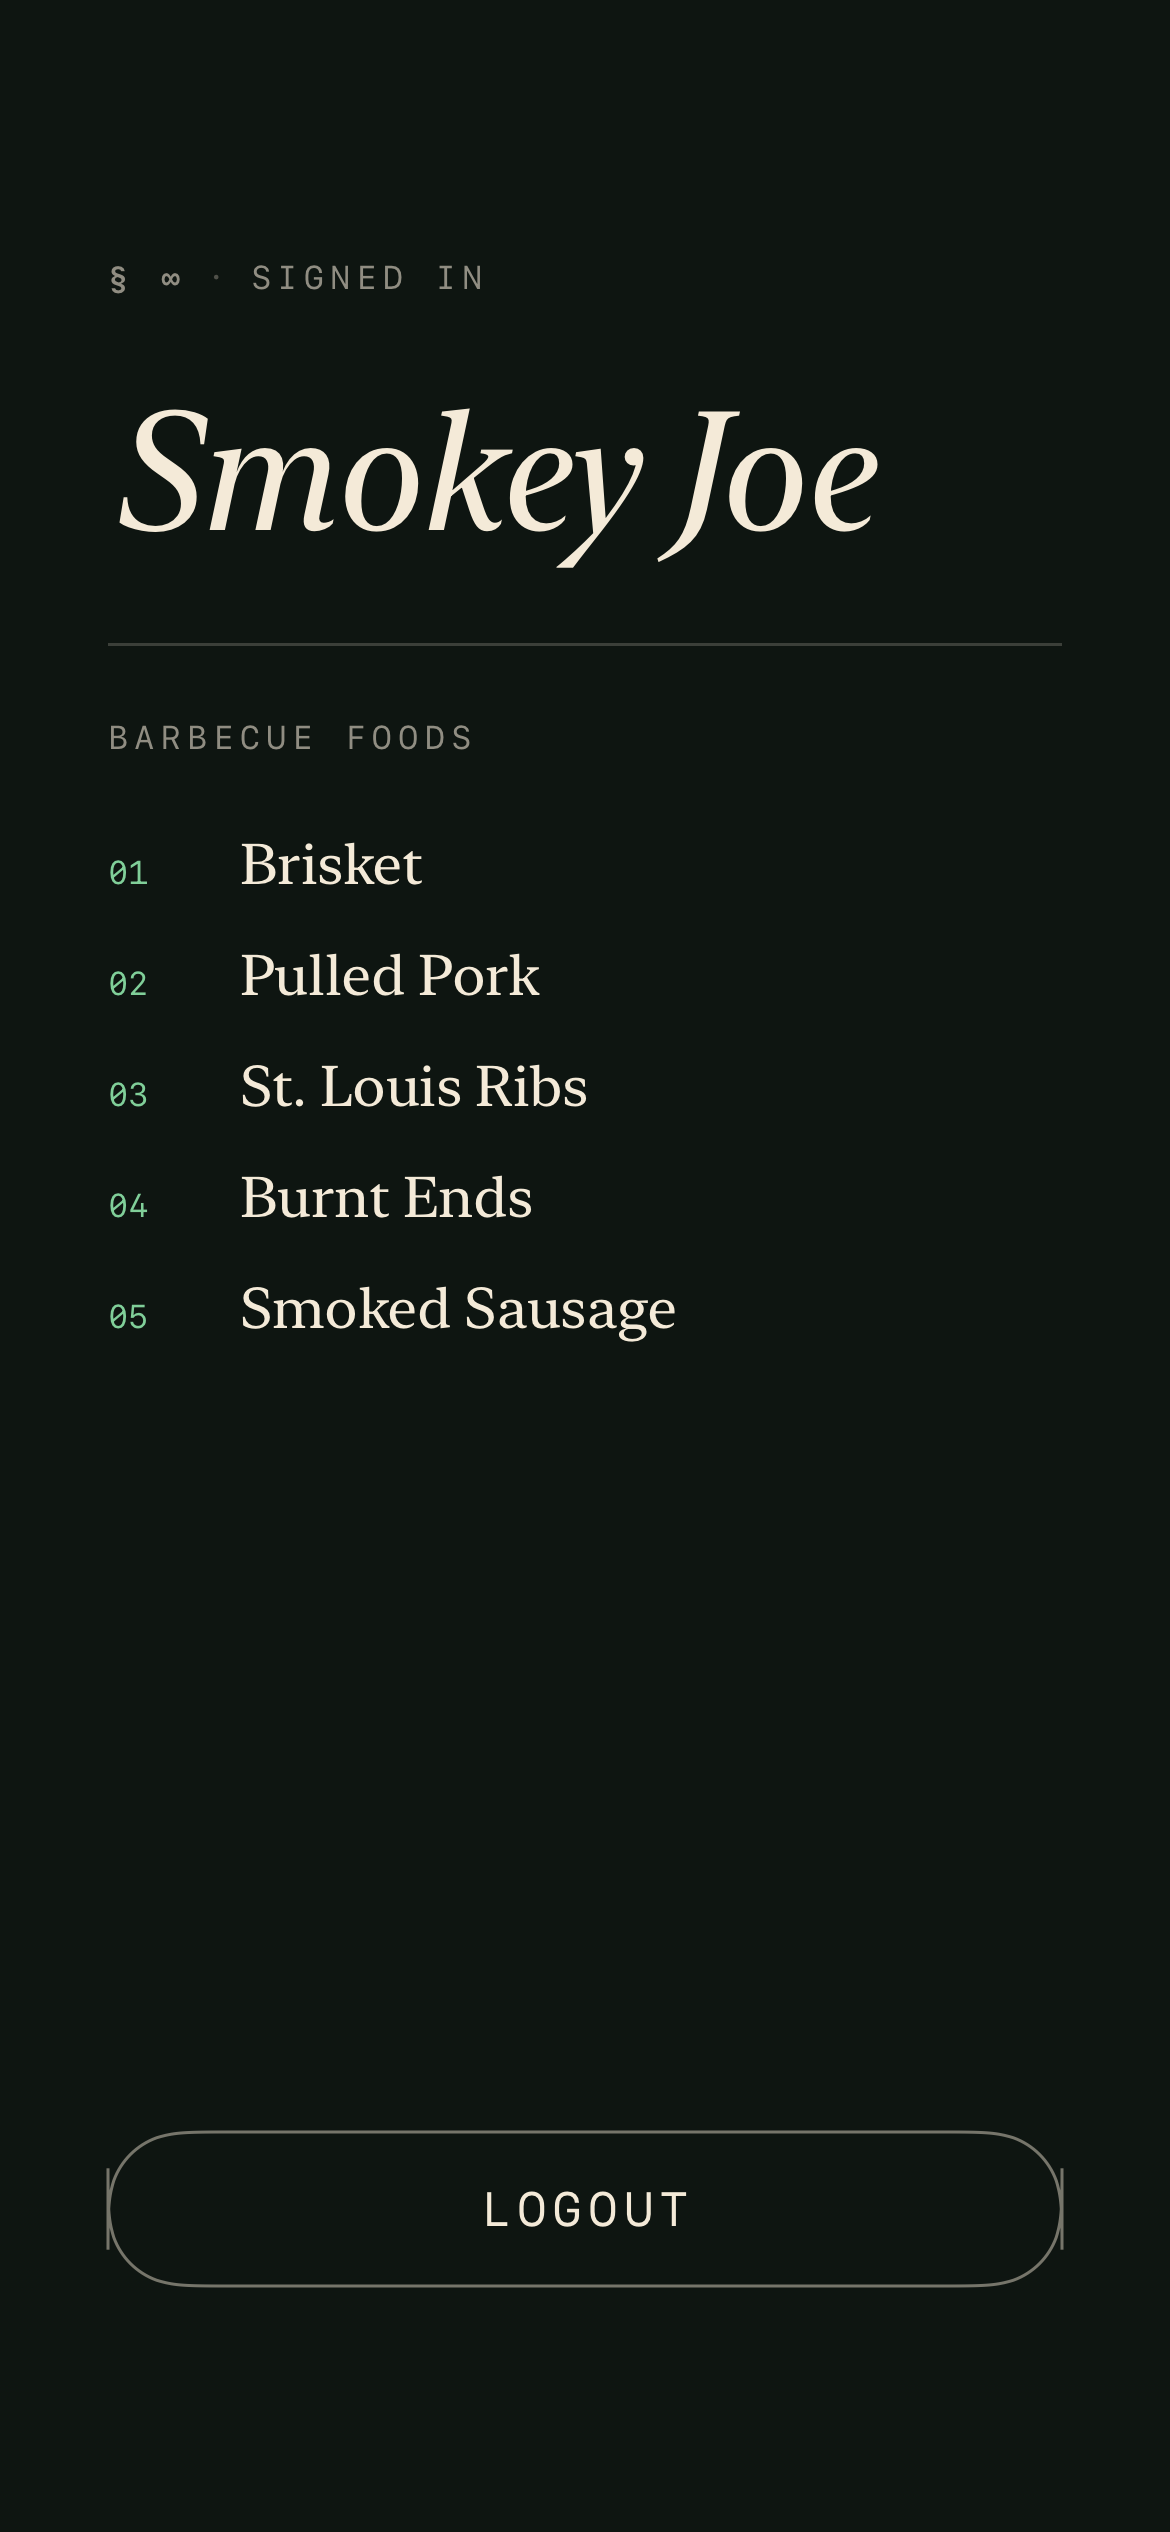
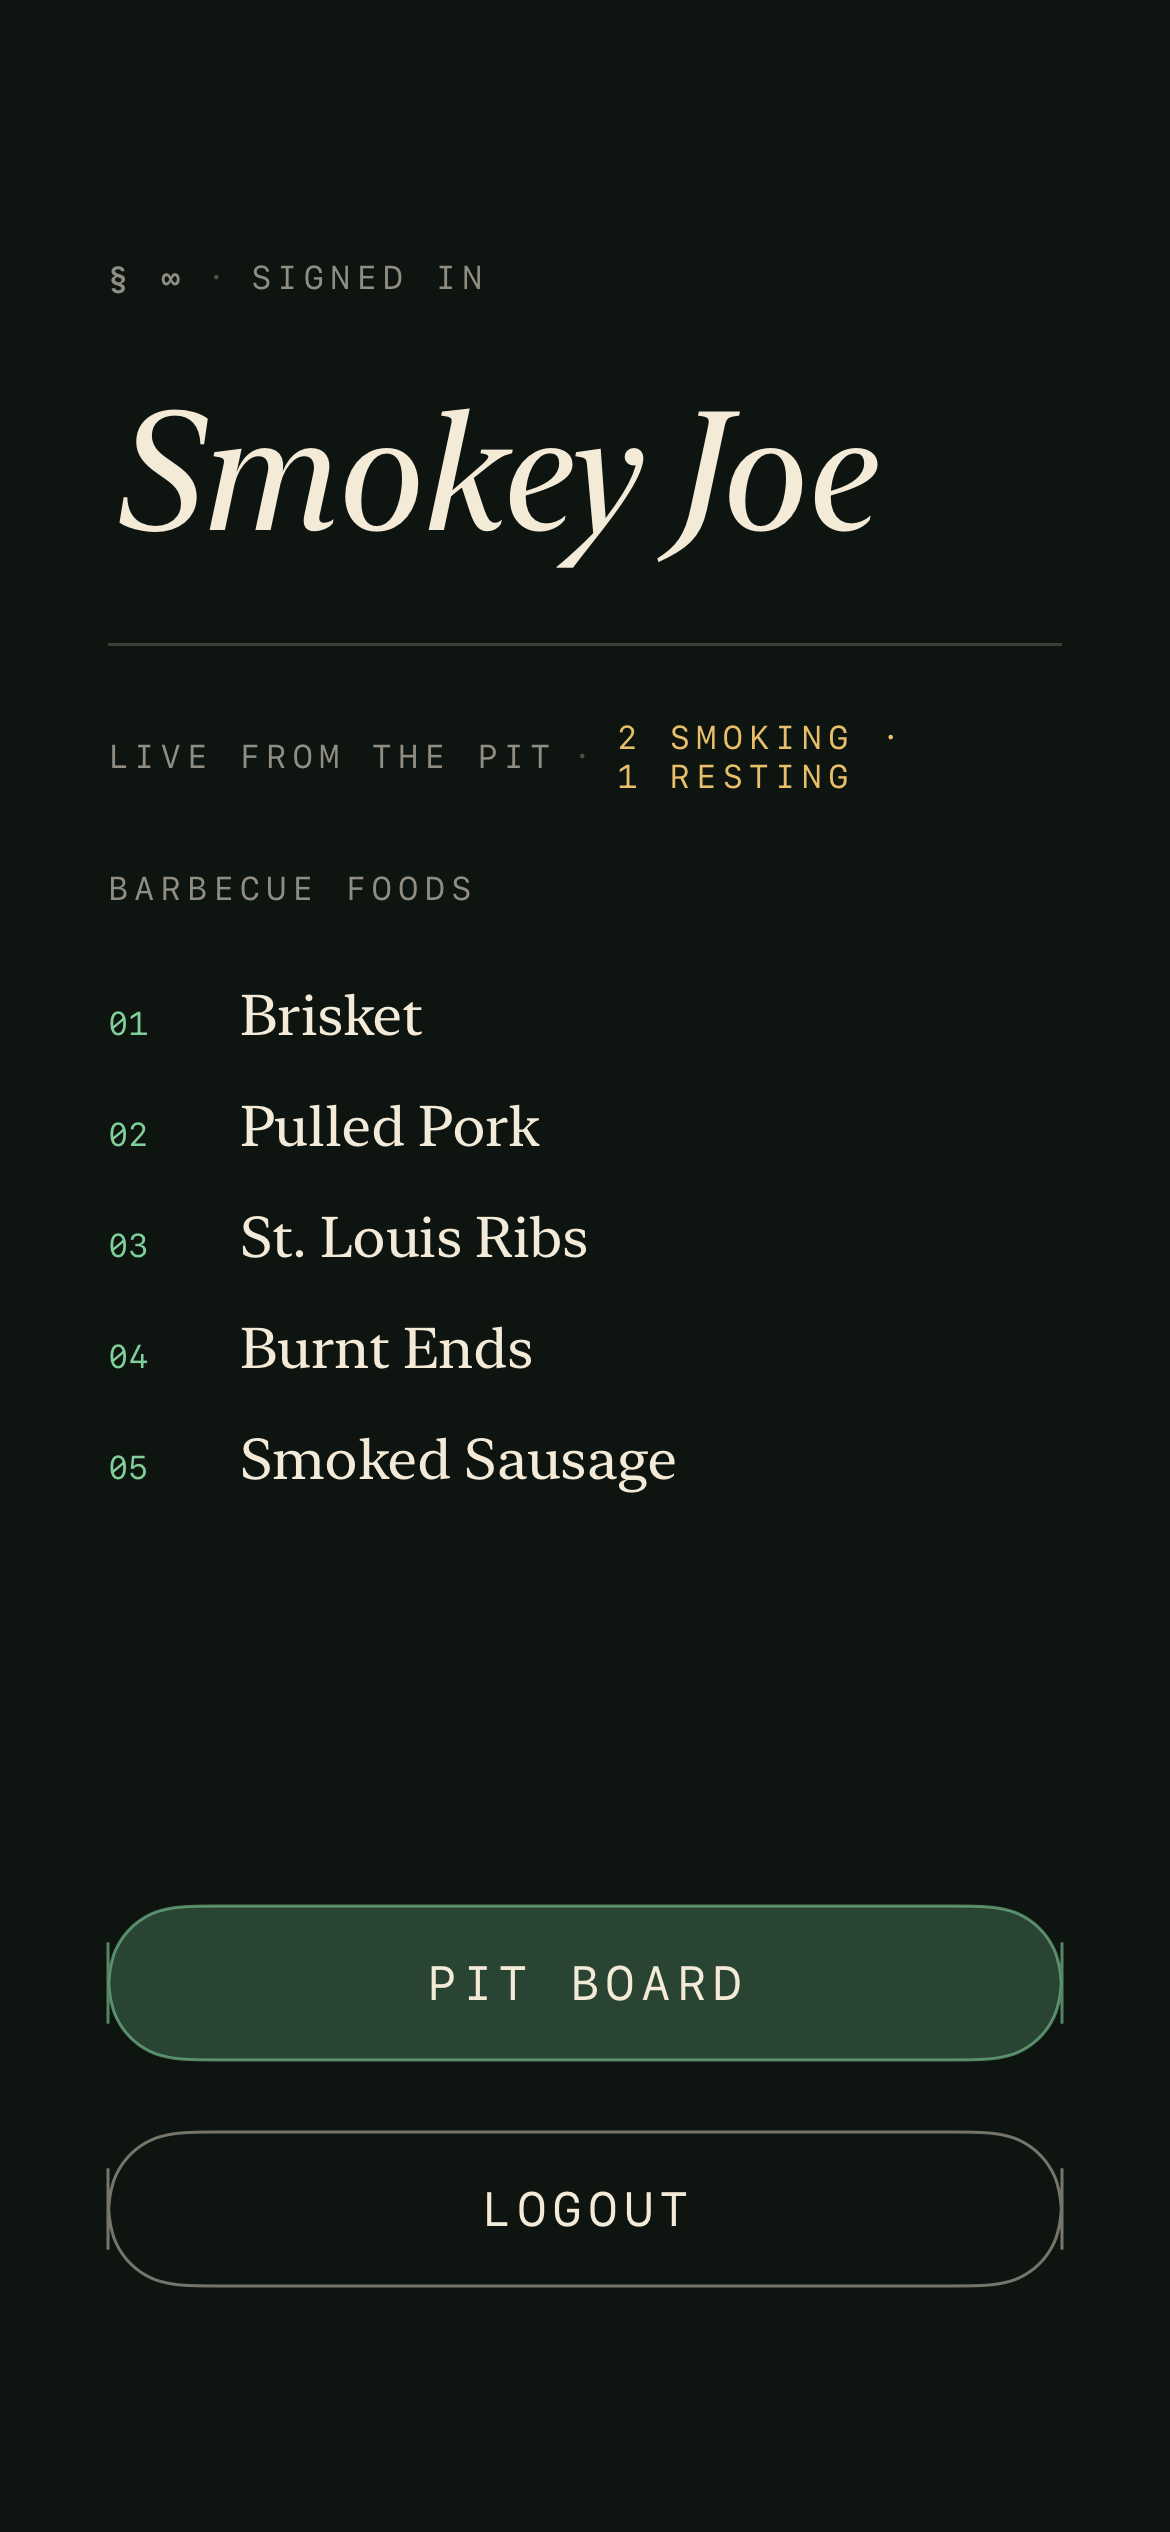
docs: stream-driven gate in the tutorial; RibHouse screenshots
The login tutorial now teaches the auth-gate narrative (state changes,
the gate reacts) matching the app; README example section points at the
streaming recipes the app now exercises, with a Pit Board screenshot.

diff --git a/Sources/napkin/napkin.docc/Articles/TutorialBuildingALoginFlow.md b/Sources/napkin/napkin.docc/Articles/TutorialBuildingALoginFlow.md
@@ -17,7 +17,7 @@ A walkthrough of **Napkin's Rib House** (`Examples/RibHouse`): two child napkins
 
 This tutorial walks through the napkin example app, [`Examples/RibHouse`](https://github.com/WikipediaBrown/napkin/tree/main/Examples/RibHouse). When you're done you'll have an end-to-end mental model of how the rings — Builder, Component, Interactor, Router, ViewController — work together for a parent napkin with two children, an injected service, and a real user-driven state transition.
 
-**What we're building.** An iOS app whose root is a *headless* `LaunchNapkin` that holds an `AuthService`. The Launch napkin starts by attaching a `LoggedOutNapkin` (one **Login** button). When the user taps it, the Launch interactor calls `authService.login()`, gets back a `User`, and tells its router to swap to a `LoggedInNapkin` that shows the user's name and a list of barbecue foods. Tapping **Logout** reverses the flow.
+**What we're building.** An iOS app whose root is a *headless* `LaunchNapkin` that holds an `AuthService`. The Launch napkin starts by attaching a `LoggedOutNapkin` (one **Login** button). When the user taps it, the Launch interactor calls `authService.login()` — and that is all it does. Routing happens in the interactor's *auth gate*: a lifecycle-bound subscription to `authService.userStream()` that swaps to a `LoggedInNapkin` when a `User` arrives and back when it becomes `nil`. Tapping **Logout** reverses the flow the same way: state changes, the gate reacts.
 
 ```
 LaunchNapkin (headless container, holds AuthService)
@@ -42,28 +42,83 @@ struct User: Sendable, Equatable {
 }
 ```
 
-The `AuthService` is a `Sendable` protocol with two async-throws methods. The mock implementation is synchronous because the goal is to demonstrate the design, not simulate network latency.
+The `AuthService` is a `Sendable` protocol with three methods: `login()` and `logout()` change the auth state; `userStream()` *is* the state — an `AsyncStream` that replays the current user to every new subscriber and yields again on every change. That stream is the channel the LaunchNapkin's auth gate (Step 3) subscribes to instead of routing from the button taps directly.
 
 ```swift
 protocol AuthService: Sendable {
     func login() async throws -> User
     func logout() async throws
-}
-
-final class BarbecueAuthService: AuthService {
-    func login() async throws -> User {
-        User(
-            name: "Smokey Joe",
-            barbecueFoods: ["Brisket", "Pulled Pork", "St. Louis Ribs", "Burnt Ends", "Smoked Sausage"]
-        )
-    }
-    func logout() async throws {}
+    func userStream() async -> AsyncStream<User?>
 }
 ```
 
+The mock implementation is an `actor`, not a plain class, because it has to hold a subscriber list and broadcast to it:
+
+```swift
+// Mock implementation that hands back Smokey Joe with a tray of barbecue.
+// Now an actor broadcaster — the README's CurrentValueSubject replacement:
+// it owns the current user and replays it to every new subscriber, so the
+// LaunchNapkin's gate routes from state instead of from taps. In a real
+// app a concrete implementation would talk to a server; the LaunchNapkin
+// only depends on the protocol, so the wiring doesn't change.
+actor BarbecueAuthService: AuthService {
+
+    private(set) var currentUser: User?
+    private var subscribers: [UUID: AsyncStream<User?>.Continuation] = [:]
+
+    func login() async throws -> User {
+        let user = User(
+            name: "Smokey Joe",
+            barbecueFoods: [
+                "Brisket",
+                "Pulled Pork",
+                "St. Louis Ribs",
+                "Burnt Ends",
+                "Smoked Sausage",
+            ]
+        )
+        setUser(user)
+        return user
+    }
+
+    func logout() async throws {
+        setUser(nil)
+    }
+
+    /// A fresh stream per subscriber: the current value immediately, then
+    /// every change.
+    func userStream() -> AsyncStream<User?> {
+        let (stream, continuation) = AsyncStream.makeStream(of: User?.self)
+        let id = UUID()
+        subscribers[id] = continuation
+        continuation.yield(currentUser)
+        continuation.onTermination = { [weak self] _ in
+            Task { await self?.removeSubscriber(id) }
+        }
+        return stream
+    }
+
+    // MARK: - Private
+
+    private func setUser(_ user: User?) {
+        currentUser = user
+        for continuation in subscribers.values {
+            continuation.yield(user)
+        }
+    }
+
+    private func removeSubscriber(_ id: UUID) {
+        subscribers[id]?.finish()
+        subscribers.removeValue(forKey: id)
+    }
+}
+```
+
+Two things matter in `userStream()`: it **replays** the current value to a fresh subscriber (so a napkin that attaches after login still sees the right state), and `setUser` **broadcasts** on every change to every existing subscriber. That replay-then-broadcast pair is exactly what a lifecycle-scoped `for await` loop needs — no separate "give me the initial value" step.
+
 `Sendable` here is the contract that this service can be passed across actor boundaries — important because the LaunchInteractor (an `actor`) will hold and call it.
 
-> Note: Both methods are `async throws` even though the mock implementation is synchronous and never throws. The signatures are part of the *contract*, not the mock — a real `BackendAuthService` would block on the network and surface errors, and the LaunchInteractor's `try await` will already handle both.
+> Note: `login()` and `logout()` are `async throws` even though the mock implementation never throws — the signatures are part of the *contract*, not the mock; a real `BackendAuthService` would block on the network and surface errors, and the LaunchInteractor's `try await` already handles both. `userStream()` is plain `async` (no `throws`) because a state stream can't fail — subscribers just stop iterating when they're done, rather than catching an error.
 
 ## Step 2: The dependency root
 
@@ -165,33 +220,57 @@ final actor LaunchNapkinInteractor:
     LoggedOutNapkinListener,
     LoggedInNapkinListener
 {
+
     nonisolated let lifecycle = InteractorLifecycle()
     nonisolated let authService: AuthService
 
     weak var router: LaunchNapkinRouting?
+    weak var listener: LaunchNapkinListener?
 
     init(authService: AuthService) {
         self.authService = authService
     }
 
-    func didBecomeActive() async {
-        await router?.attachLoggedOut()
+    func wire(router: LaunchNapkinRouting?, listener: LaunchNapkinListener?) {
+        self.router = router
+        self.listener = listener
     }
 
-    // Triggered by the LoggedOutNapkin's button tap.
-    func loggedOutDidTapLogin() async {
-        do {
-            let user = try await authService.login()
-            await router?.attachLoggedIn(user: user)
-        } catch {
-            // Real apps would surface this; the demo stays silent.
+    func didBecomeActive() async {
+        // The auth gate: routing follows auth state, not taps. The stream
+        // replays the current value (nil at launch), which is what attaches
+        // the LoggedOut napkin. Bound to the active scope — cancelled
+        // automatically on willResignActive.
+        task {
+            for await user in await self.authService.userStream() {
+                if let user {
+                    await self.router?.attachLoggedIn(user: user)
+                } else {
+                    await self.router?.attachLoggedOut()
+                }
+            }
         }
     }
 
-    // Triggered by the LoggedInNapkin's button tap.
+    func willResignActive() async {}
+
+    // MARK: - LoggedOutNapkinListener
+
+    func loggedOutDidTapLogin() async {
+        do {
+            _ = try await authService.login()
+            // No routing here — the gate above reacts to the stream.
+        } catch {
+            // Login failed — stay on the logged-out screen. Real apps would
+            // surface an alert; we keep this demo silent.
+        }
+    }
+
+    // MARK: - LoggedInNapkinListener
+
     func loggedInDidTapLogout() async {
+        // Routing happens via the stream, same as login.
         try? await authService.logout()
-        await router?.attachLoggedOut()
     }
 }
 ```
@@ -201,6 +280,9 @@ Key points:
 - **`final actor`** — business logic is off the main actor.
 - **`Interactable`** (not `PresentableInteractable`) — Launch has no presenter because it has no view of its own.
 - **`nonisolated let authService`** — `Sendable` service, safe to expose nonisolated; the actor reads it directly without crossing its own boundary.
+- **`wire(router:listener:)`** — the builder calls this once, right after construction, to hand the interactor its router and listener. Nothing else may assign either property.
+- **The auth gate lives in `didBecomeActive()`, not in the tap handlers.** `task { ... }` spawns a `Task` bound to the active scope — napkin cancels it automatically when the interactor resigns active — and loops `for await user in authService.userStream()`, routing to `attachLoggedIn` or `attachLoggedOut` as the stream yields. The stream replays the current value immediately, so this same loop is what attaches `LoggedOutNapkin` at launch.
+- **Neither `loggedOutDidTapLogin()` nor `loggedInDidTapLogout()` calls the router.** They only change `authService`'s state (`login()` / `logout()`); the gate above is what reacts and routes. One place decides *what to show*, driven by state, instead of routing logic scattered across every intent handler.
 - **Conforms to both child listener protocols** — `LoggedOutNapkinListener` for the Login intent, `LoggedInNapkinListener` for the Logout intent. The router will hand `interactor` to each child's builder as their listener.
 
 ### Router
@@ -547,17 +629,18 @@ Then commit the regenerated PNGs alongside the view change.
 The full data flow on a login tap:
 
 ```
-LoggedOutView.Login tap
-  → LoggedOutInteractor.didTapLogin()             (PresentableListener)
-  → listener?.loggedOutDidTapLogin()              (LoggedOutNapkinListener)
-  → LaunchInteractor.loggedOutDidTapLogin()       (Launch conforms to the listener)
-  → try await authService.login()
-  → router?.attachLoggedIn(user: user)
-  → LaunchRouter detaches LoggedOut, builds LoggedIn(user:), attaches + embeds.
+Login button tap
+  → dispatch { await listener?.didTapLogin() }        (PresentableListener)
+  → listener?.loggedOutDidTapLogin()                  (LoggedOutNapkinListener)
+  → LaunchInteractor.loggedOutDidTapLogin()           (Launch conforms to the listener)
+  → try await authService.login()                     (state changes…)
+  → userStream() yields the User                      (…the gate hears it…)
+  → router?.attachLoggedIn(user: user)                (…and routes)
 ```
 
 What that demonstrates:
 
+- **State-driven routing.** Routing isn't triggered by a tap; it's triggered by `authService.userStream()` yielding a new value. The tap only changes state (`login()` / `logout()`); a single lifecycle-bound loop in `didBecomeActive()` is the only place that calls `attachLoggedIn` or `attachLoggedOut`.
 - **Composition over inheritance.** No `class FooInteractor: BaseInteractor`. The actor conforms to `Interactable`; lifecycle is delegated to ``InteractorLifecycle``.
 - **Explicit isolation crossings.** View `@MainActor` → actor `Interactor` via `dispatch`. Actor → router `@MainActor` via `await`. Actor → service `Sendable` via plain call.
 - **DI through the dependency chain.** The parent's component conforms to its children's dependency protocols. Services injected at the top reach the leaves without anyone hand-rolling a singleton.

diff --git a/README.md b/README.md
@@ -1082,17 +1082,19 @@ bundle exec fastlane unit_test
 
 ### Runnable example app
 
-**Napkin's Rib House** under [`Examples/RibHouse`](Examples/RibHouse) is a runnable iOS app demonstrating the framework end-to-end: a headless `LaunchNapkin` holds an `AuthService`, swapping between a `LoggedOutNapkin` (Login button) and a `LoggedInNapkin` (user name + barbecue list).
+**Napkin's Rib House** under [`Examples/RibHouse`](Examples/RibHouse) is a runnable iOS app demonstrating the framework end-to-end: a headless `LaunchNapkin` holds an `AuthService`, swapping between a `LoggedOutNapkin` (Login button) and a `LoggedInNapkin` (user name + barbecue list). The app also exercises every recipe from [Streaming State Down the Tree](#streaming-state-down-the-tree), live: the Launch napkin's auth gate routes from `userStream()`, a `PitService` actor fans out to the LoggedIn header *and* a pushed Pit Board napkin, a headless Announcements napkin consumes the no-replay last-call stream, and the specials list arrives via `Observations`.
 
 <p align="center">
   <img src="Sources/napkin/napkin.docc/Resources/rib-house-logged-out.png" alt="LoggedOut napkin: paper-cream background with kicker '§ 00 · WELCOME', large serif headline 'Step inside the smokehouse', a lede, and an ink LOGIN button." width="300">
   &nbsp;&nbsp;
-  <img src="Sources/napkin/napkin.docc/Resources/rib-house-logged-in.png" alt="LoggedIn napkin: dark green-black background, '§ ∞ · SIGNED IN' kicker, italic 'Smokey Joe' wordmark, a numbered list of barbecue foods, and an outlined LOGOUT button." width="300">
+  <img src="Sources/napkin/napkin.docc/Resources/rib-house-logged-in.png" alt="LoggedIn napkin: dark green-black background, '§ ∞ · SIGNED IN' kicker, italic 'Smokey Joe' wordmark, a live 'LIVE FROM THE PIT · 2 SMOKING · 1 RESTING' summary line, a numbered list of barbecue foods, a filled PIT BOARD button, and an outlined LOGOUT button." width="300">
+  &nbsp;&nbsp;
+  <img src="Sources/napkin/napkin.docc/Resources/rib-house-pit-board.png" alt="Pit Board napkin: dark paper background, '§ 01 · THE PIT, LIVE' kicker, items grouped into LIGHTING / SMOKING / RESTING stage sections each with an amber stage label, a hairline rule, and a TODAY'S SPECIALS list of starred items." width="300">
 </p>
 
-<p align="center"><em>Left:</em> <code>LoggedOutNapkin</code> &nbsp;·&nbsp; <em>Right:</em> <code>LoggedInNapkin</code></p>
+<p align="center"><em>Left:</em> <code>LoggedOutNapkin</code> &nbsp;·&nbsp; <em>Center:</em> <code>LoggedInNapkin</code> &nbsp;·&nbsp; <em>Right:</em> <code>PitBoardNapkin</code></p>
 
-Both screenshots are the **reference images** from the example's snapshot tests (`Examples/RibHouse/SnapshotTests/__Snapshots__/`) — any visual regression in either view flips the test red. The `.xcodeproj` is tracked, so just:
+All three screenshots are the **reference images** from the example's snapshot tests (`Examples/RibHouse/SnapshotTests/__Snapshots__/`) — any visual regression in any of the three views flips the test red. The `.xcodeproj` is tracked, so just:
 
 ```bash
 open Examples/RibHouse/RibHouse.xcodeproj